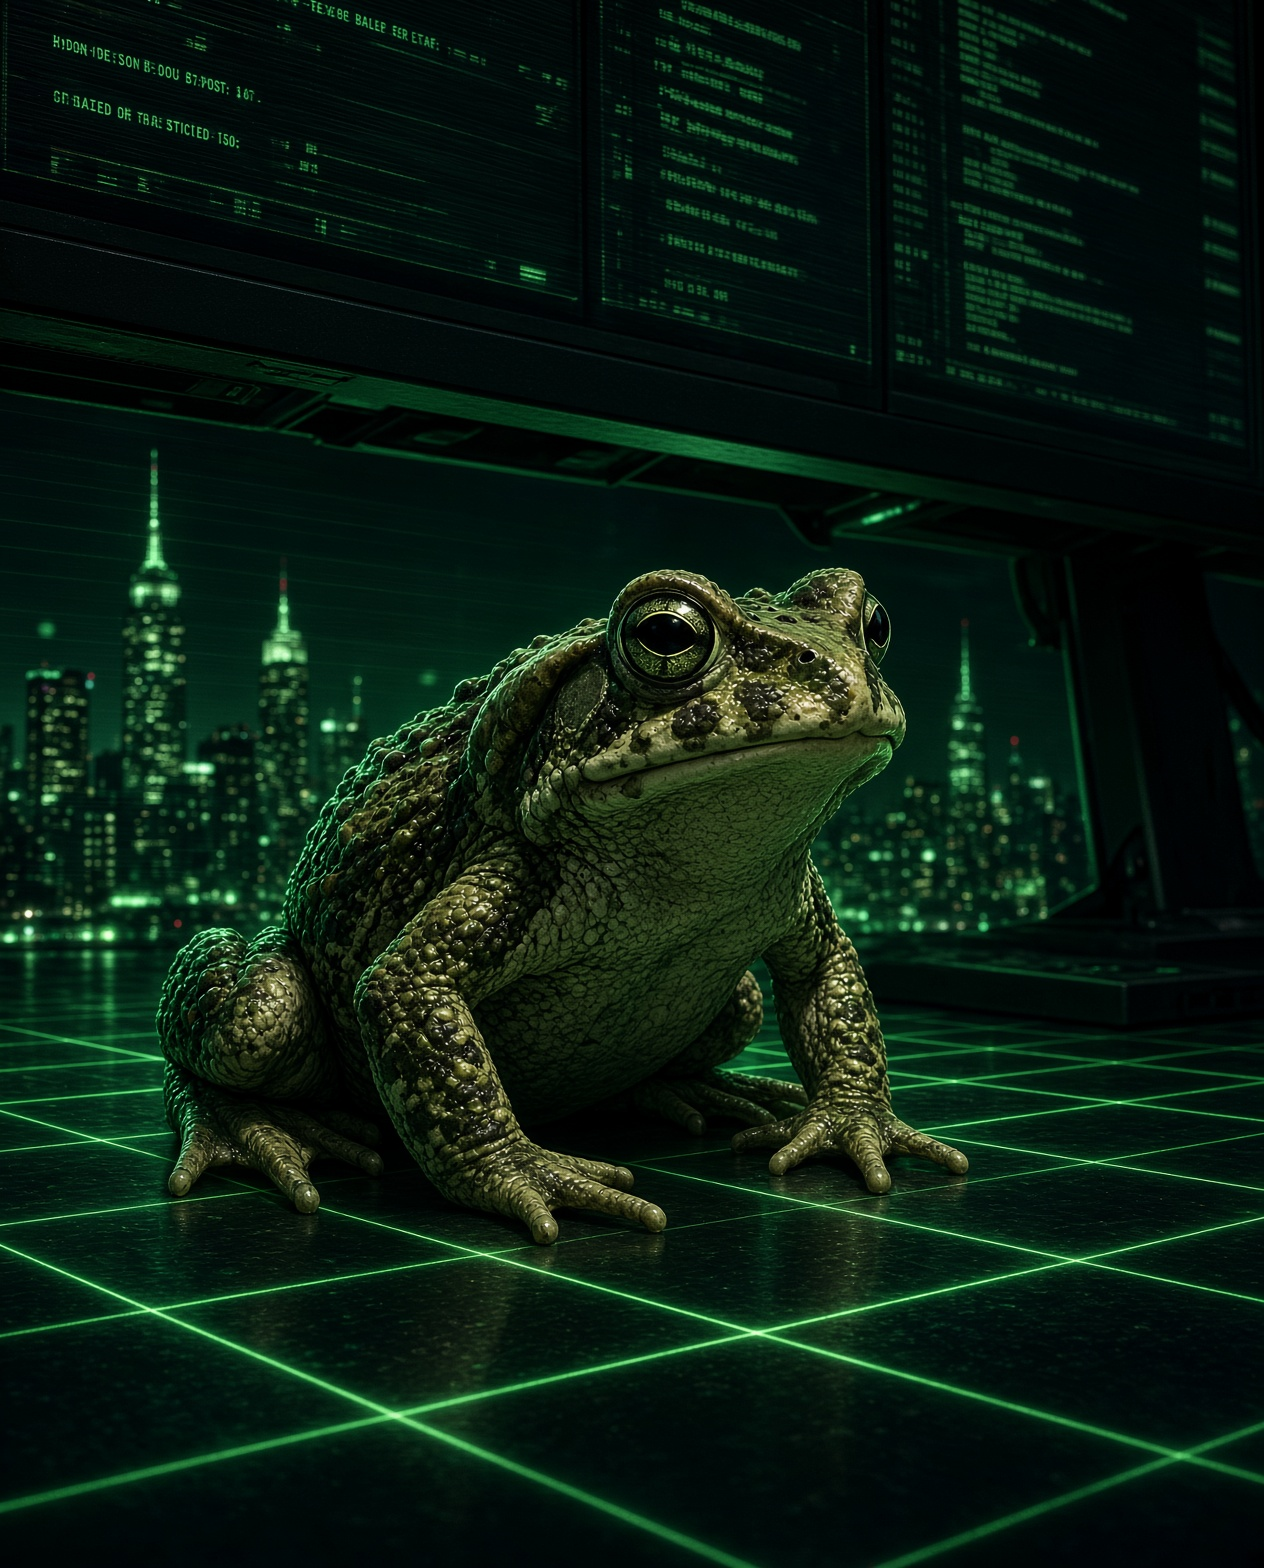
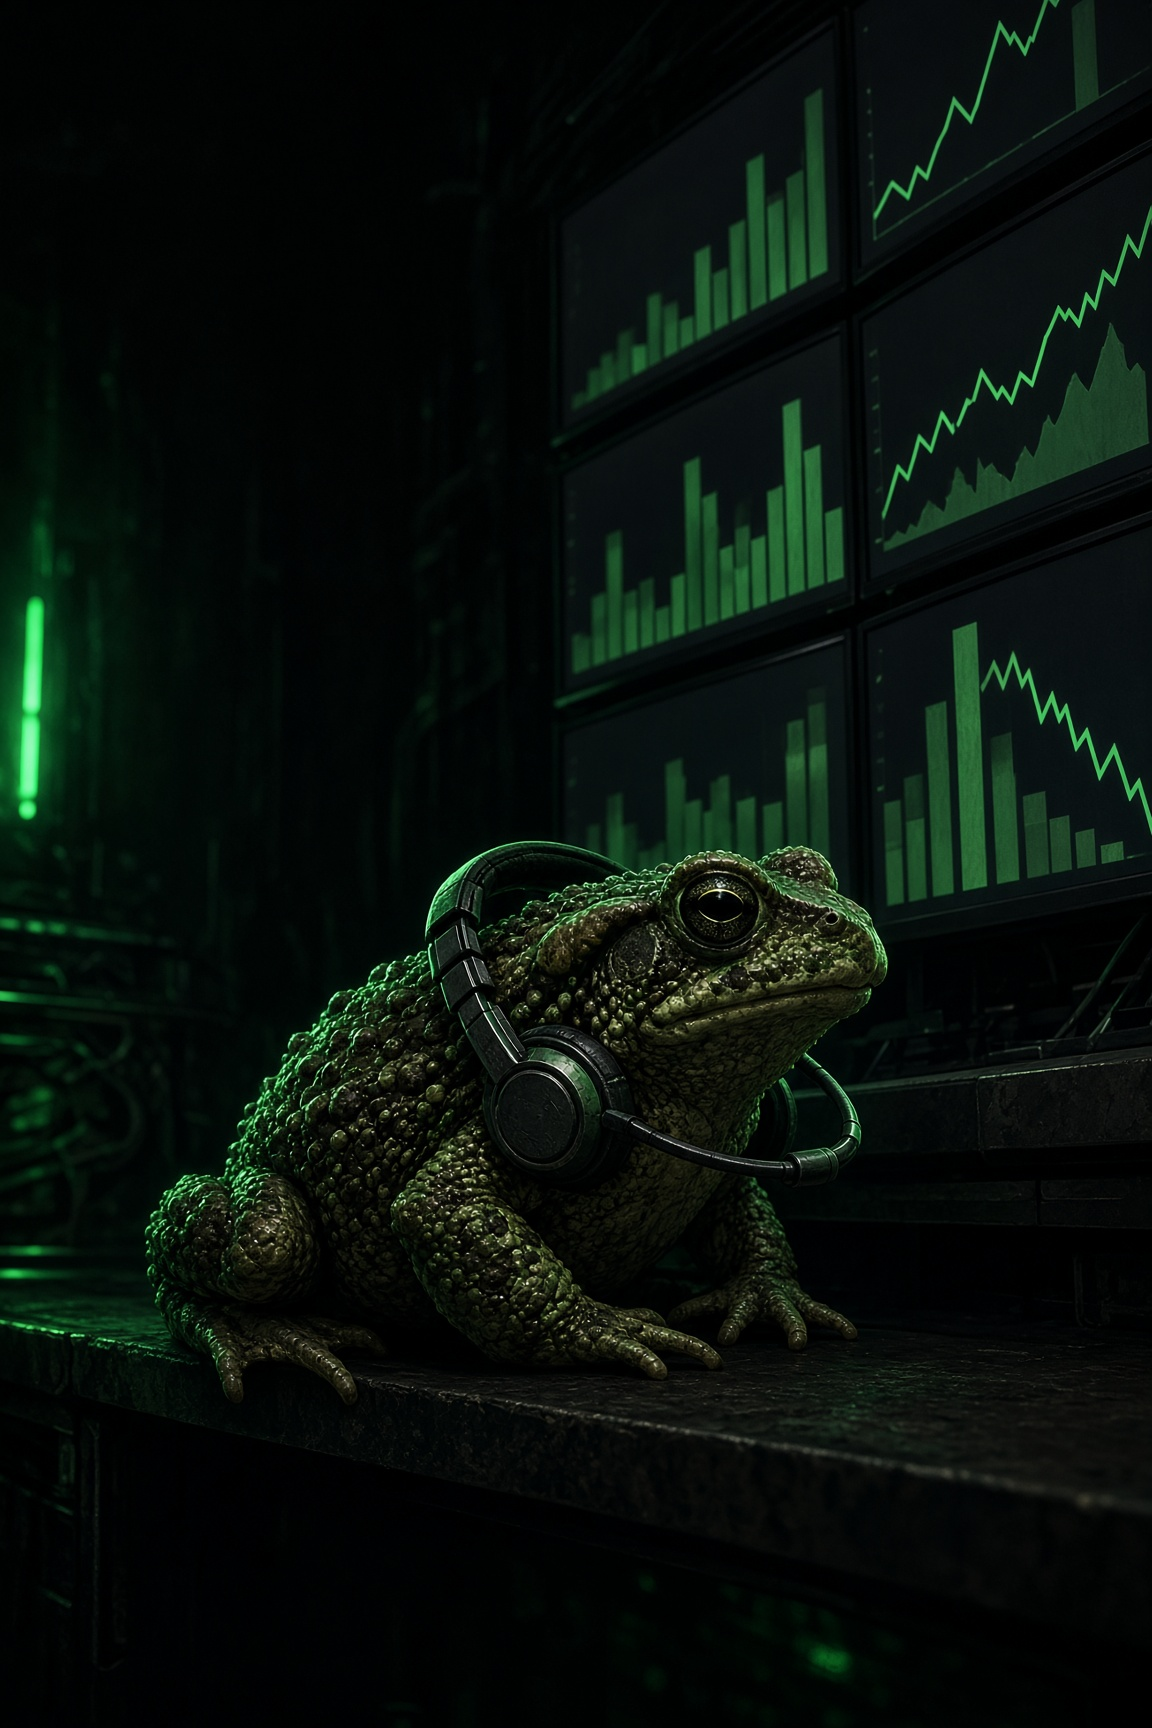
Complete Frogs card art (11/11) and add Launch Art concept to collectibility.md
Regenerated Warty Lookout, Sticky Tongue, and Mimic Frog against the
prompt fixes from this session - all three now carry the required
trading-floor vest/headset and have no legible text baked in, closing
out the Frogs faction art review.

Also documents a new Launch Art print-run flag (Section 10.5) covering
copies minted before a template's art gets repainted, modeled as a
derived artwork-version compare rather than a stored flag so it works
across factions repainted on different schedules. Design-only, flagged
for sign-off alongside the rest of the not-yet-built collectibility
schema.

diff --git a/STATUS.md b/STATUS.md
@@ -1,6 +1,6 @@
 # FLOORWARS — Status
 
-### Last updated: 2026-09-17 (session 26)
+### Last updated: 2026-09-18 (session 27)
 
 ---
 
@@ -372,6 +372,11 @@ No fixed roadmap beyond the immediate next step — this project is being driven
 - **Verified two ways.** A regression test (`engine/test/engine.test.ts`, "sends the creature that can safely clear a Guard first...") built the exact scenario — a fragile 2/2 and a safe 4/5 both facing a 3/4 Guard — confirmed to fail against the pre-fix code (fragile dies for nothing, `board[0]` null) and pass against the fix (fragile survives and even lands 2 face damage afterward, since the Guard's already dead by the time its turn in the attack order comes up). A before/after bot-vs-bot win-rate sweep (300 games/matchup across all 6 factions, plus a focused 500-game Degens-vs-Normies run — same methodology sessions 16/17 used) confirmed a real, isolated improvement: Degens' overall win rate 54.7%→57.3%, and specifically **Degens vs Normies 40.0%→46.6%** — the exact matchup session 17 flagged — while every other faction's win rate moved by ≤1.4pp (noise, not a side effect). 57/57 engine tests green (1 new), `tsc`/`vite build` clean across client (which consumes the engine's bot via Play vs AI).
 - **Housekeeping:** none of this session's changes are committed yet (`STATUS.md`, `collectibility.md`, `server/migrations/0009_*.sql`, `server/src/{collectionRepo,craftingRepo,httpApi}.ts`, `server/test/{db,api}.test.ts`, `client/src/{App,useWallet,styles}.{tsx,ts,css}`, `client/src/components/{CraftingScreen,StartingFactionScreen}.tsx`, `engine/src/bot.ts`, `engine/test/engine.test.ts`) — the user hasn't asked for a commit. **Unrelated, noticed mid-session:** `branding/assets/` picked up concurrent changes outside this conversation (deleted `banner.png`/`banner.svg`/`pfp-flat-vector-archive.{png,svg}`, new `Rarity/` folder and a few `grok-image-*.jpg`/`legendary.jpg` files) — looks like your own art-generation work landing in parallel, left untouched here.
 
+**Session 27 (2026-09-18) — Frogs faction art review: 11/11 now accepted, plus a new Launch Art concept written into `collectibility.md`.**
+- **Reviewed all 11 generated Frogs illustrations against session 26's fixed prompts** (actually opened every file, not just re-read the prompts). 8/11 were good on the first pass (Leap Frog, Frog Swarm, Chaos Croak, Glitch Toad, Copycat, Deep Croak, Primordial Croak, Warty Prince — the last with a minor accepted flavor miss, its crown rendered as a generic jeweled crown rather than the "torn, mismatched dog collar" nod to once being a Doggo). 3 were sent back: **Warty Lookout** was still literally the pre-fix file (no headset, the exact legible pseudo-text problem session 26 documented); **Sticky Tongue** and **Mimic Frog** had lost their trading-floor vest on regen even against the fixed prompts.
+- **Root-caused the two real regens, not just re-rolled blind.** Sticky Tongue's vest was losing out to the more visually dominant tongue-strike action — strengthened the prompt to make the vest explicit and non-optional. Mimic Frog's prompt wording ("a vest... warping and rippling into the mirrored surface") was genuinely ambiguous — Grok read it as the vest dissolving away entirely, so it was reworded to state the vest stays a recognizable garment shape rendered in mirror material. Both changes, plus a plain-regen note for Warty Lookout, are in `grok-card-prompts.md` (v3 notes) and its Frogs section status summary. **All 3 regenerated and re-reviewed — Frogs is now 11/11 accepted.** Not yet copied into `client/src/assets/cards/`/`cardArt.ts` (session 24's wiring step) or committed — that's still queued.
+- **New collectibility concept, `collectibility.md` bumped to v1.2**: the user asked about branding the current (pre-repaint) card art as a distinct collectible tier once faction art gets revised later, floating the name "the Genesis set." Flagged that "Genesis" collides with the existing top Rarity tier (the exact mistake Section 4 already resolved once for a different proposal) — renamed **Launch Art**, added as new Section 10.5, modeled as a flag alongside First Edition (Section 10) rather than a Rarity/Edition rung. Recommended schema shape: `card_editions.artwork_version` (bumped on repaint) + `card_instances.minted_artwork_version` (snapshotted at mint) with "is this Launch Art" computed as a version-compare on read, not a stored boolean — avoids needing one global cutover date across factions whose art ships/gets revised on different schedules. Design-doc only, flagged for sign-off in Section 13 item 7 — no code path mints `card_instances` yet regardless (same pre-existing caveat as the rest of the collectibility schema, Section 8).
+
 **Session 26 (2026-09-17) — closed the Builders/Degens single-Common gap (roadmap item 2), plus a real fix to the Frogs art prompts the user flagged as not looking right.**
 - **4 new Common templates** (`engine/src/cards.ts`): **Code Monkey** (2/2 vanilla) and **Ship It** (2/1 Rush) for Builders; **Overleveraged** (1/2, deal 1 self-damage/gain +1 Attack — a deliberately weaker echo of Leverage Trade's shape, scaled to Common power) and **Slow Burn** (Burn spell, 1 dmg/turn for 2 turns — a scaled-down Ember Curse) for Degens. Both factions now have 3 Commons each, matching Doggos/CryptoBros/Normies (Frogs still leads with 4) — up from 1 each. **Deliberately avoided** recreating session 16's flagged "net +1 damage swing at 1 mana" trap (why Margin Call got nerfed cost 1→2) — a naked cheap self-damage-for-face-damage spell was the obvious first idea for a second Degens Common and was rejected for exactly that reason; Overleveraged buffs a body instead of hitting face, and Slow Burn carries no self-damage at all.
   - `BUILDER_SAMPLE_DECK`/`DEGEN_SAMPLE_DECK` updated to include 3 copies of each new card, trimming 1 copy each from six existing entries per deck to stay at exactly 30 (verified programmatically, not just by eye). `collectionRepo.ts`'s doc comment (previously documenting this as a known, unsolved gap) updated to reflect the fix — no code changes needed there or in `craftingRepo.ts`, since both compute eligible Commons dynamically from `CARD_POOL` rather than hardcoding a list.
@@ -397,7 +402,7 @@ No fixed roadmap beyond the immediate next step — this project is being driven
 - **Verified live**, not just by typecheck: spun up the client dev server alone (Play vs AI needs no server/wallet) and drove real Playwright-scripted matches — confirmed no off-faction card appeared in a Doggos hand across a real game, screenshotted the hand-row tray's visible background separation, screenshotted a live Guard badge on a played Guard Dog, screenshotted the exit-confirm modal actually blocking a Menu click, and — after a couple of retries against real card-draw randomness — triggered a genuine LIQUIDATION event in a live Crypto Bros match and screenshotted the toast rendering correctly. `tsc` clean for engine + client, 59/59 engine tests and 40/40 client tests green, client `vite build` clean throughout.
 
 **Start here next session — the queued, not-yet-built items:**
-1. **Card art generation** (`grok-card-prompts.md`) — Doggos is faction-complete (10/10 real templates) and wired into the live client (session 24). Frogs has 5/11 drafted but all flagged for regeneration against session 26's fixed prompts (see above) before continuing. Builders/Degens/Crypto Bros/Normies are still 0/N. As each card's art finishes generating, repeat session 24's wiring step (copy into `client/src/assets/cards/`, add to `cardArt.ts`'s `CARD_ART` map) — not something to pick up unprompted otherwise.
+1. **Card art generation** (`grok-card-prompts.md`) — Doggos is faction-complete (10/10 real templates) and wired into the live client (session 24). **Frogs is now 11/11 accepted (session 27) but not yet wired** — still needs session 24's copy-into-`client/src/assets/cards/`-and-add-to-`cardArt.ts` step, and a commit/push (the 3 regenerated files are sitting in the working tree uncommitted as of session 27). Builders (art generation appears to be underway in the background — an untracked `branding/assets/Cards/Builders/` directory exists as of session 27, not yet reviewed) /Degens/Crypto Bros/Normies are still otherwise unstarted. As each card's art finishes generating, repeat session 24's wiring step — not something to pick up unprompted otherwise.
 2. ~~The Builders/Degens single-Common gap~~ — **closed session 26**, see above.
 3. The deferred **turn-gate/asymmetric-leave anti-bot fix** (`matchRoom.ts`) — still deliberately not built; only build it if the residual quest/referral/rank farming surface turns out to matter in practice.
 4. ~~Condition/Floor Grade's actual roll-at-grant logic and CSS presentation~~ — **closed session 26**, see above.

diff --git a/collectibility.md b/collectibility.md
@@ -1,10 +1,10 @@
 # Floorwars — Collectibility Specification
 
-### Version 1.1 — 2026-09-12
+### Version 1.2 — 2026-09-18
 
 This document is the single authoritative spec for how a Floorwars card's *rarity*, *print*, *shine*, *condition*, and *provenance* relate to each other. It consolidates and resolves `spec.md` Sections 12–20 (which were written as an evolving log of proposals and later "resolved" patches — this doc is the clean end state) and settles the naming collisions those sections flagged as open (`spec.md` §13/§14). `spec.md` itself is left as the historical record; this file is what to build against going forward. See `card-schema.md` for gameplay effect syntax and `architecture.md` Section 6 for the underlying data-layer design — this doc only owns the collectibility model.
 
-**Changelog:** v1.1 adds Condition/grading (Section 7) — physical-card-grading and CS:GO-wear-style scarcity, requested directly by the user — and resolves the two axis-interaction questions v1.0 had left open (Section 13).
+**Changelog:** v1.1 adds Condition/grading (Section 7) — physical-card-grading and CS:GO-wear-style scarcity, requested directly by the user — and resolves the two axis-interaction questions v1.0 had left open (Section 13). v1.2 adds Launch Art (Section 10.5) — a second print-run flag alongside First Edition, covering copies minted before a template's art gets repainted.
 
 ---
 
@@ -199,6 +199,34 @@ Modeled as one of five mutually-exclusive rungs on the Edition ladder (Section 4
 
 ---
 
+## 10.5 Launch Art — a second flag alongside First Edition
+
+### The idea
+
+As each faction's card art gets generated (`grok-card-prompts.md`), an early round can later get repainted — e.g. Frogs' first-pass art needed a v2 prompt fix (2026-09-17/18 sessions) after real quality problems were found post-generation. Once a template's Standard-Edition illustration ships and players already own copies, a later repaint raises the same question real reprints do (Magic's Alpha/Beta, Pokémon's Base Set 1st print vs. Unlimited): should copies minted before the repaint be marked as historically distinct?
+
+Raised 2026-09-18 as **"the Genesis set"** for a planned month-or-two retirement of the current first-pass art. **Recommendation: keep the idea, rename it.** "Genesis" is already the top Rarity tier (Section 3) — reusing it here would repeat the exact naming collision Section 4 already resolved once (the original "Genesis Set" print-tier proposal in `spec.md` §13 colliding with Genesis-the-Rarity). Call this **Launch Art** instead: purely a "this copy predates a repaint" fact. It is not a Rarity and not an Edition tier — it stacks with every other axis the same way First Edition does (Section 10), and implies nothing about power or pull odds.
+
+### Why it isn't shaped like First Edition (a stored boolean)
+
+First Edition is anchored to one global launch-window clock, so a single `is_first_edition boolean` set at mint time is enough (Section 10). Launch Art can't safely reuse that shape: different factions ship and get repainted on different schedules (Frogs' art might stabilize in month 2, Builders' in month 4), so one global before/after flag would need either a column per template or a separate join table — more machinery than the underlying fact needs.
+
+**Recommendation: model it as a derived version-compare, not a stored flag:**
+
+- `card_editions` gains `artwork_version integer not null default 1`. Repainting a template's Standard art bumps this integer and updates `artwork_ref` to the new file, rather than silently overwriting the file behind the same version number.
+- `card_instances` gains `minted_artwork_version integer not null default 1`, copied once from the edition's current `artwork_version` at insert time — the same insert-time-snapshot pattern `is_foil`/`condition_grade` already use (Sections 5/7).
+- "Is this a Launch Art copy?" is computed on read — `minted_artwork_version < (current) card_editions.artwork_version` for that instance's edition row — never stored as its own boolean. This avoids a global cutover date and a backfill migration each time any one faction's art ships an update.
+
+### Asset-pipeline side
+
+Repainting a template means archiving the outgoing file rather than overwriting it in place (e.g. `client/src/assets/cards/archive/v{n}/{id}.jpg`), and `cardArt.ts`'s lookup needs to key off `(templateId, artworkVersion)` — falling back to the current file for any instance minted before versioning existed — rather than `templateId` alone as it does today.
+
+### Not yet wired to anything live
+
+Same caveat as the rest of this document's schema (Section 8): `card_editions`/`card_instances` aren't in the live pack-opening path yet — `packsRepo.ts` still writes a JSON blob straight to `pack_openings`. This is a schema-shape recommendation to build against whenever that system actually gets built, not something with an implementation today. Flagging for sign-off rather than just doing it, same as Section 10's schema change — this touches the same migration lineage (`0002`/`0009`).
+
+---
+
 ## 11. What we're borrowing from Pokémon, Yu-Gi-Oh, and CS:GO — and why
 
 Real research, not guesswork — grounded in current (2026) TCG rarity documentation. Sources at the end.
@@ -248,6 +276,7 @@ Stated as recommendations, not unilateral decisions — flagging which ones are 
 4. **Condition should never be re-rollable/re-gradable (Section 7): recommend against ever adding this**, even as a Dust sink — it would turn a permanent provenance record into a gambling loop, undermining the one thing that makes a grade trustworthy.
 5. **Founders Set business model and cadence — still your call, not decided here.** A reasonable default worth considering: a time-boxed, real-money cash-shop product (consistent with `spec.md`'s already-decided principle that real-money packs stay a separate path from the token economy), each Founders Set a distinct, named, hard-capped print run — but whether it's purely paid, partly achievement-gated, or recurring is a genuine product decision.
 6. Unchanged from `spec.md` §13: the per-template **Rarity assignment is still a cost-based heuristic**, not tuned design — out of scope for this doc, noted for completeness.
+7. **Launch Art as a derived version-compare vs. a stored flag (Section 10.5): recommend derived** (`minted_artwork_version` vs. the edition's current `artwork_version`), not a boolean. Avoids needing a single global cutover date across factions whose art ships and gets repainted on different schedules. Naming ("Launch Art," not "Genesis," to avoid colliding with the Rarity tier) is settled; the schema shape is not yet built — no code path mints `card_instances` at all yet, so this waits on the same prerequisite as the rest of this document's schema.
 
 ---
 
